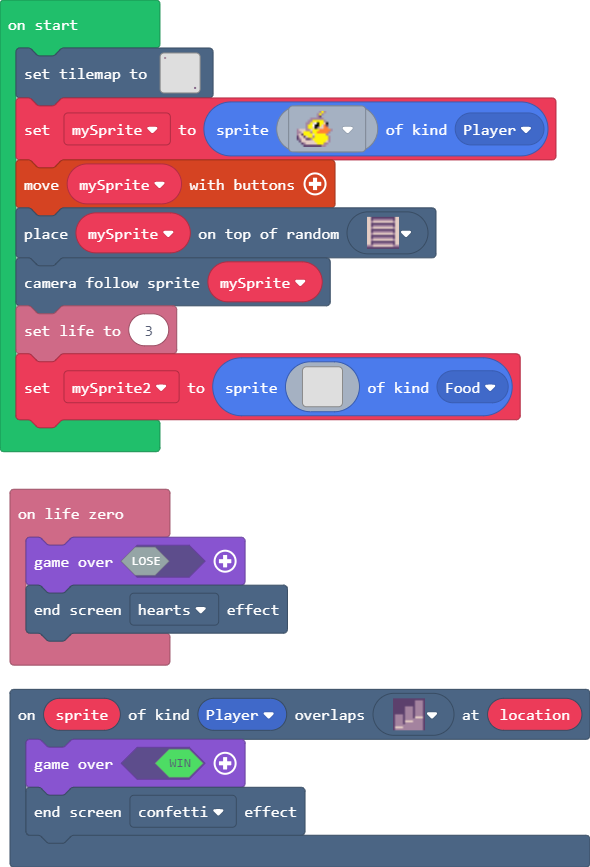
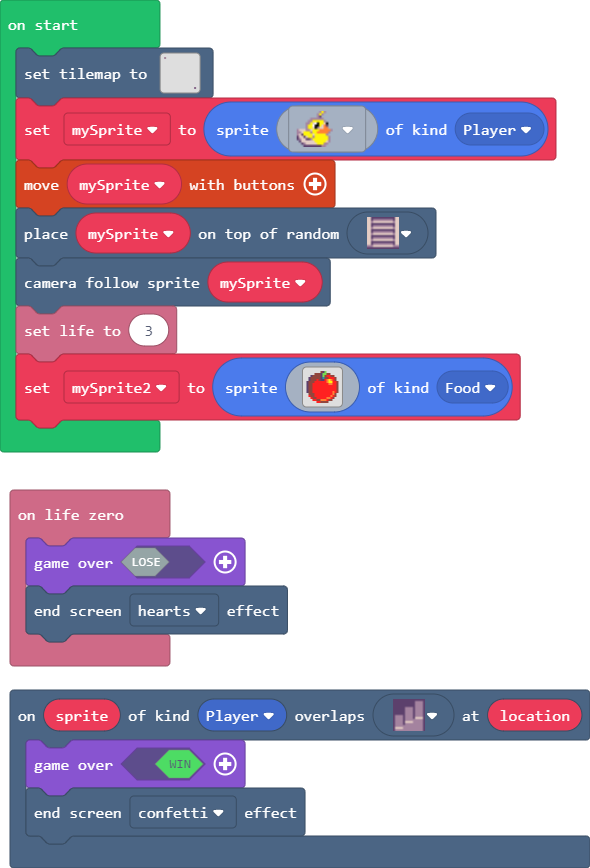
a

diff --git a/main.ts b/main.ts
@@ -56,20 +56,20 @@ tiles.placeOnRandomTile(mySprite, sprites.dungeon.stairNorth)
 scene.cameraFollowSprite(mySprite)
 info.setLife(3)
 let mySprite2 = sprites.create(img`
-. . . . . . . . . . . . . . . . 
-. . . . . . . . . . . . . . . . 
-. . . . . . . . . . . . . . . . 
-. . . . . . . . . . . . . . . . 
-. . . . . . . . . . . . . . . . 
-. . . . . . . . . . . . . . . . 
-. . . . . . . . . . . . . . . . 
-. . . . . . . . . . . . . . . . 
-. . . . . . . . . . . . . . . . 
-. . . . . . . . . . . . . . . . 
-. . . . . . . . . . . . . . . . 
-. . . . . . . . . . . . . . . . 
-. . . . . . . . . . . . . . . . 
-. . . . . . . . . . . . . . . . 
-. . . . . . . . . . . . . . . . 
-. . . . . . . . . . . . . . . . 
+. . . . . . . e c 7 . . . . . . 
+. . . . e e e c 7 7 e e . . . . 
+. . c e e e e c 7 e 2 2 e e . . 
+. c e e e e e c 6 e e 2 2 2 e . 
+. c e e e 2 e c c 2 4 5 4 2 e . 
+c e e e 2 2 2 2 2 2 4 5 5 2 2 e 
+c e e 2 2 2 2 2 2 2 2 4 4 2 2 e 
+c e e 2 2 2 2 2 2 2 2 2 2 2 2 e 
+c e e 2 2 2 2 2 2 2 2 2 2 2 2 e 
+c e e 2 2 2 2 2 2 2 2 2 2 2 2 e 
+c e e 2 2 2 2 2 2 2 2 2 2 4 2 e 
+. e e e 2 2 2 2 2 2 2 2 2 4 e . 
+. 2 e e 2 2 2 2 2 2 2 2 4 2 e . 
+. . 2 e e 2 2 2 2 2 4 4 2 e . . 
+. . . 2 2 e e 4 4 4 2 e e . . . 
+. . . . . 2 2 e e e e . . . . . 
 `, SpriteKind.Food)
